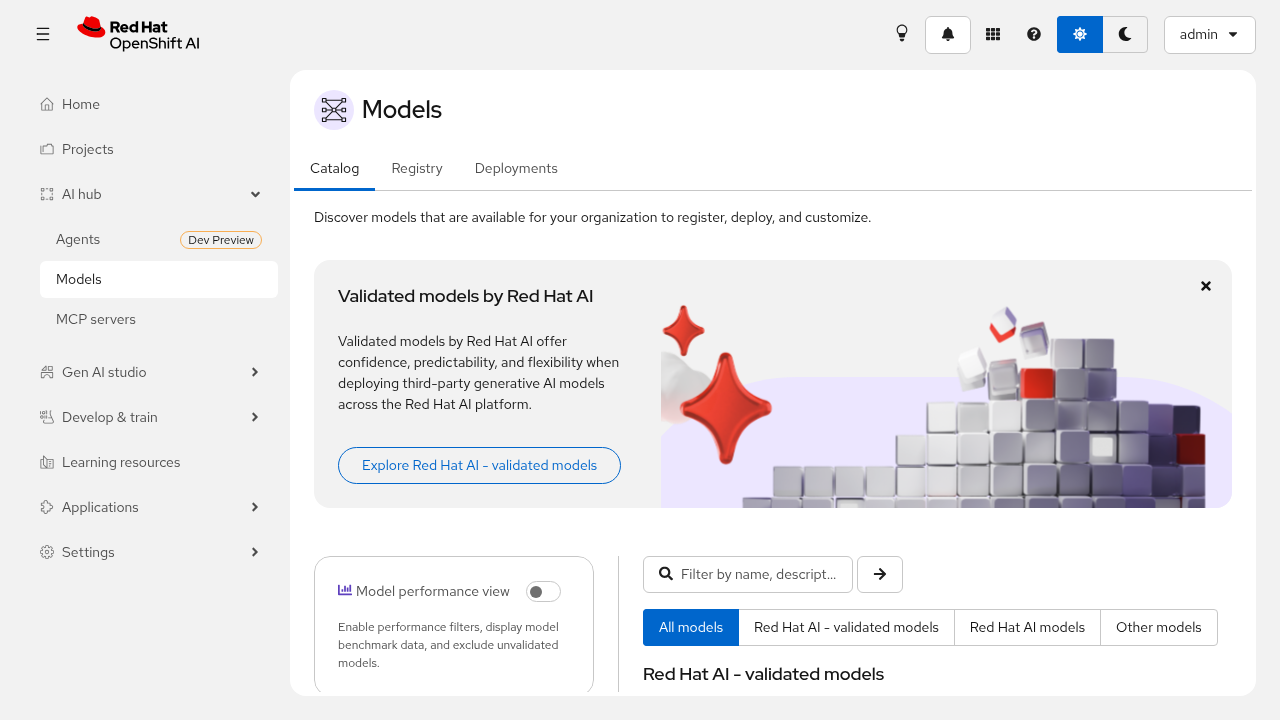
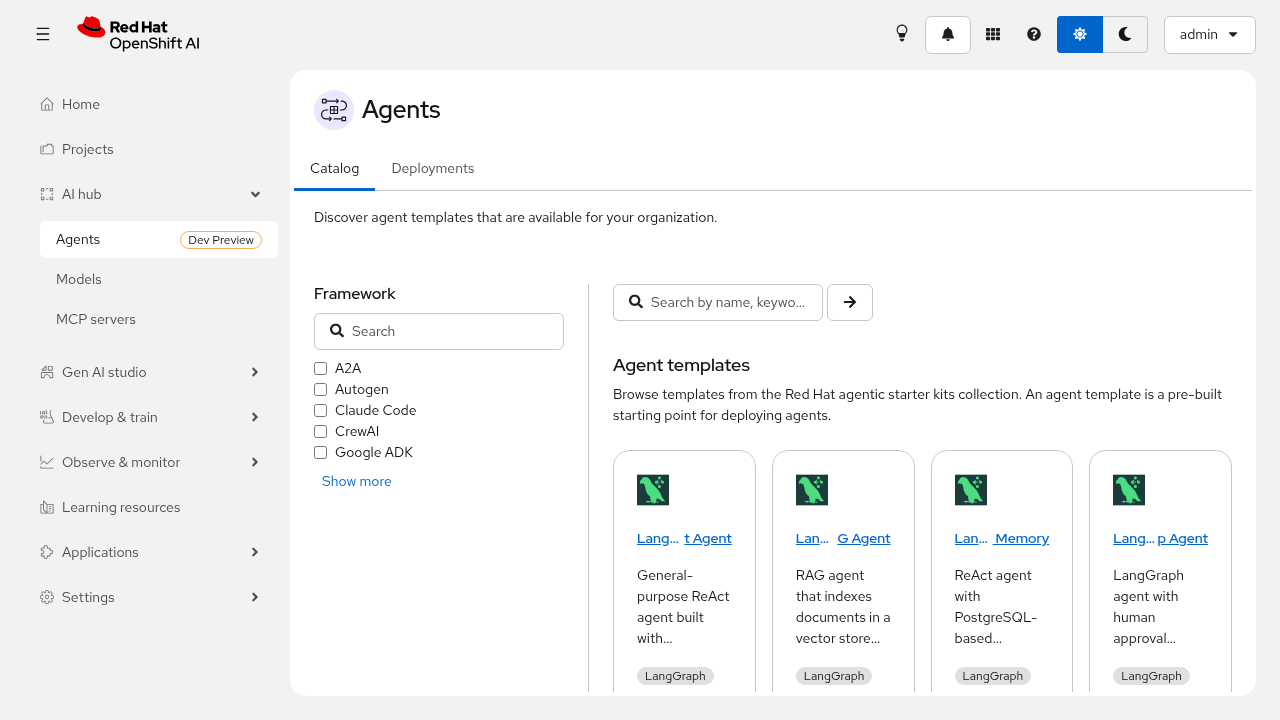
🦩 initial commit 🦩

diff --git a/qa/image-mismatch-audit.md b/qa/image-mismatch-audit.md
@@ -1,0 +1,133 @@
+# Image mismatch audit — 2026-09-29
+
+Full semantic audit of all 54 `image::` embeds across the 54 workshops: each PNG was visually
+inspected against the step text / prose it illustrates (not just alt-text). Triggered by a user
+find in agent-catalog-ai-hub (step says "click AI hub → Agents", image shows the Models catalog).
+
+**RESOLVED 2026-09-30 — all 25 defective embeds fixed: 11 re-captured live from
+cluster-44gxc (workshop resources re-created where needed: agentsCatalog flag enabled, vllm-fast-1
+runtime template created, ingress-gateway created in abc123-gateway), 11 removed with
+`// TODO(screenshot)` drift reasons and dead PNGs deleted, 3 alt-text/prose corrections.**
+`make build` clean (0 errors), zero broken image references. Skill gap fixed: the
+quality-enrichment Phase 2 content-match audit (+4 triage signal), workshop-screenshot post-capture
+verification (final URL/title + pixel check, rejecting 404/error/modal/empty captures), and a
+Content Correctness rule in WORKSHOP-COMMON-RULES were added so this class of defect is caught
+before shipping.
+
+Dedup note: 54 embeds map to 44 unique files (7 duplicate-hash groups). A shared file can be
+correct in one workshop and wrong in another (e.g. 01-model-catalog-page.png).
+
+## Scoreboard
+
+| Verdict | Embeds | Meaning |
+|---|---|---|
+| HARD mismatch | 20 | image shows the wrong page, an error/404, a welcome modal, or an empty state that contradicts the step |
+| Moderate | 1 | right surface, wrong selection/state shown |
+| Minor | 4 | right page, but a detail the alt/prose claims is not visible |
+| Borderline-acceptable | 4 | empty state explicitly documented by alt-text and/or prose |
+| Clean match | 25 | image matches step + alt-text |
+
+**25 of 54 embeds (46%) "don't make sense"; 20 are outright wrong.**
+
+## HARD mismatches (20)
+
+| # | Workshop / file | Prose says | Image actually shows |
+|---|---|---|---|
+| 1 | agent-catalog-ai-hub `01-model-catalog-page.png` | "click AI hub → Agents", observe agent starter kits | Models catalog page (AI hub → Models highlighted) — the user's find. NB: same file is CORRECT in csv-export-model-catalog |
+| 2 | ai-available-assets `01-ai-asset-endpoints-page.png` | endpoints page, per-project assets | Loading spinner + "Welcome to OpenShift AI 3.5!" tour modal + "No projects" |
+| 3 | ai-available-assets `01-mcp-servers-tab.png` | "the GitHub MCP server now appears in the MCP servers tab" | "No MCP configuration found" empty state — contradicts the verify step |
+| 4 | ai-available-assets `02-models-tab.png` | Models tab with deployed model + capability badges | "Models as a Service could not be loaded" error banner + "Some model sources could not be loaded" empty state |
+| 5 | openshell-agent-sandboxing `02-agent-deployments-dashboard.png` | "Running agent deployments in the RHOAI dashboard" | "No agent deployments" empty state |
+| 6 | view-agent-deployments `01-agent-ops-list.png` | "Running agent deployments list in the dashboard" | Same empty-state file as #5 (md5 5fa918ac) |
+| 7 | mcp-catalog-admin `01-mcp-catalog-settings.png` | Settings page with MCP catalog source management | Console "We can't find that page" 404 + welcome tour modal (page doesn't exist in this build) |
+| 8 | rhai-fast-release-images `01-serving-runtime-badges.png` | Serving runtimes page with badge combinations | Same 404 file as #7 (md5 ac734e54) |
+| 9 | validated-tool-calling-config `01-validated-arguments-panel.png` | Validated Arguments / Tool Calling panel | Raw OAuth `server_error` JSON page (failed auth redirect; also renders a state param) |
+| 10 | maas-llmd-deployment `01-deploy-wizard-llmd.png` | Deploy wizard, "Distributed inference with llm-d" resource selected | Welcome tour modal over a project page showing a **Failed** deployment card |
+| 11 | rhai-fast-release-images `02-wizard-fast-runtime.png` | Deploy wizard with fast-1 runtime selected | Same welcome-modal file as #10 (md5 f7f8cce8) |
+| 12 | vllm-cpu-ibm-z-power `01-deploy-model-wizard.png` | Wizard with vLLM CPU ServingRuntime selected | Same welcome-modal file as #10 (md5 f7f8cce8) |
+| 13 | kueue `02-workload-conditions.png` | Workload YAML status conditions | Console "404: The server doesn't have a resource type 'workloads'" error page |
+| 14 | kubeflow-trainer-v2 `02-trainjob-console-search.png` | TrainJob listed on console Search page | "No resources selected" empty Search page (no TrainJob) |
+| 15 | autorag `01-autorag-page.png` | AutoRAG page listing optimization runs | "Configure a pipeline server" empty state |
+| 16 | maas-multi-provider-passthrough `02-external-models-tab.png` | External models tab, claude-sonnet Ready | API keys page + "No API keys" empty state + welcome modal — wrong page entirely |
+| 17 | model-registry-catalog `03-model-transfer-jobs.png` | Transfer-jobs table with names/namespaces/statuses | "No model transfer jobs" empty state |
+| 18 | llama-stack-ogx-core `01-ogx-operator-installed.png` | OGX Operator in Installed Operators view | Console "404: Page Not Found" (project redhat-ods-operator) |
+| 19 | mlflow-experiment-tracking `02-experiment-overview.png` | demo-experiment overview with run statistics, logged params, metric charts | GenAI **Usage** tab: "Traces 0", "No data available for the selected time range", empty latency/error panels |
+| 20 | gateway-api-rhcl `02-gateways-status.png` | Verify: created Gateway reports Resource accepted / programmed | Gateways list view with 3 pre-existing platform Gateways (data-science, maas-default, openshift-ai-inference) — the created Gateway is not shown |
+
+## Moderate (1)
+
+| Workshop / file | Issue |
+|---|---|
+| maas-vllm-deployment `02-deploy-model-wizard.png` | Wizard shows the **"LLM inference service"** deployment method selected; this workshop deploys the legacy vLLM path, which requires the **"Inference service"** radio (the one the prose contrasts against) |
+
+## Minor (4)
+
+| Workshop / file | Issue |
+|---|---|
+| gateway-api-rhcl `01-installed-operators-kuadrant.png` | Right page (kuadrant-system Installed Operators) but Connectivity Link operator is NOT visible in the list (Agent Sandbox, Authorino, AWS EFS, Cluster Observability, DNS only) |
+| llmd-kv-cache-tiering `01-llmd-topology-configurations.png` | Prose says "note the columns shown" — the empty-state image shows no columns (same file is correct in llmd-core, whose prose says the table is empty) |
+| llminferenceservice-config `02-deployed-models-llminferenceservice.png` | Right deployments list, but the claimed "Ready status badge" is not visible (no status column in frame) |
+| llminferenceservice-config `03-deploy-wizard-llmd-multinode.png` | Alt says "Multi-node topology option enabled"; image shows **Single node** selected |
+
+## Borderline-acceptable (4) — no action
+
+Empty states that the alt-text/prose explicitly documents: llmd-latency-routing and
+llmd-lora-routing routing-configurations, llmd-core topology-configurations,
+mcp-lifecycle-operator deployments tab.
+
+## Root causes
+
+1. **Bulk capture session captured whatever state the browser was in** — welcome tour modals,
+   loading spinners, 404s and OAuth error pages shipped unreviewed.
+2. **Files copy-pasted across sibling workshops** (agents-mcp, model-serving families) — one bad
+   capture propagates to 2-3 embeds; the 404 and wizard-modal files each cover 2-3 workshops.
+3. **No alt-text vs pixels check** — several alt-texts honestly describe the intended image, so a
+   text-only review passes while the pixels are wrong.
+4. **Cluster-state drift** — some states (MCP catalog settings page, workloads API, transfer jobs)
+   don't exist in the current build, so the capture can never match.
+
+## Recommended actions
+
+**RESOLVED 2026-09-30 (dispositions of each of the 25):**
+
+Re-captured live (11):
+- agent-catalog-ai-hub `01-model-catalog-page.png` — the real AI hub → Agents catalog (agentsCatalog flag enabled on the cluster first, per the workshop's own Exercise 2); alt-text corrected
+- ai-available-assets `01-ai-asset-endpoints-page.png` — populated endpoints page (project abc123-user1, qwen25-05b Ready)
+- ai-available-assets `02-models-tab.png` — Models tab with the deployed models
+- maas-llmd-deployment `01-deploy-wizard-llmd.png` — wizard with "LLM inference service with llm-d" selected
+- rhai-fast-release-images `02-wizard-fast-runtime.png` — wizard with the fast-1 runtime (Limited support + fast-1 badges); the workshop's vllm-fast-1 runtime template was created on the cluster (OpenShift Template in redhat-ods-applications — the wizard lists Templates, not ServingRuntime CRs)
+- vllm-cpu-ibm-z-power `01-deploy-model-wizard.png` — wizard with vLLM CPU (x86) runtime selected
+- maas-vllm-deployment `02-deploy-model-wizard.png` — wizard with "Inference service" selected
+- rhai-fast-release-images `01-serving-runtime-badges.png` — Serving runtimes page with Pre-installed/version badges
+- gateway-api-rhcl `01-installed-operators-kuadrant.png` — kuadrant-system Installed Operators with Red Hat Connectivity Link (required a taller viewport: the console table virtualizes)
+- gateway-api-rhcl `02-gateways-status.png` — Gateways view with the created ingress-gateway (workshop resource re-created in abc123-gateway; Programmed=False matches the content's own RHDP note — no LoadBalancer hostname)
+- llama-stack-ogx-core `01-ogx-operator-installed.png` — redhat-ods-applications Installed Operators with the OpenShift AI operator (OGX's carrier); alt-text corrected (no separate OGX Operator CSV exists in this build)
+
+Removed + `// TODO(screenshot)` with drift reasons (11):
+- ai-available-assets `01-mcp-servers-tab.png` — needs a published GitHub MCP server + playground MCP config (none deployed)
+- openshell-agent-sandboxing + view-agent-deployments (2 files) — need the Agent Sandbox operator (not installed)
+- mcp-catalog-admin `01-mcp-catalog-settings.png` — the settings page 404s in the 3.5.1 build
+- validated-tool-calling-config `01-validated-arguments-panel.png` — the model details Validated Arguments/Tool Calling panel does not exist in this build (catalog filter does); prose flagged for review
+- kueue `02-workload-conditions.png` — kueue admission webhook does not create Workloads here (LocalQueue/ClusterQueue applied, job ran, no Workload CR)
+- kubeflow-trainer-v2 `02-trainjob-console-search.png` — no TrainJob CRD installed
+- autorag `01-autorag-page.png` — environment GC'd; re-run blocked on upstream driver image
+- maas-multi-provider-passthrough `02-external-models-tab.png` — needs Anthropic credentials
+- model-registry-catalog `03-model-transfer-jobs.png` — no transfer jobs exist
+- mlflow-experiment-tracking `02-experiment-overview.png` — MLflow demo environment GC'd
+
+Alt-text/prose corrections (3):
+- llminferenceservice-config module-02 alt — removed the unverifiable "Ready status badge" claim
+- llminferenceservice-config module-03 alt — describes the actual wizard state (Single node selected, Multi-node available)
+- llmd-kv-cache-tiering prose — no longer asks the learner to "note the columns shown" in an empty state
+
+Residual prose drifts needing human review (recorded in the TODO comments):
+- validated-tool-calling-config Exercise 2 step 5 — the copy-and-run Tool Calling panel does not exist in the 3.5.1 UI
+- gateway-api-rhcl module-02 Verify — claims `Programmed=True`; the content's own NOTE explains this never happens on RHDP clusters without a LoadBalancer provider
+- llama-stack-ogx-core module-01 — "The OGX Operator appears in the redhat-ods-applications namespace" — OGX is a component of the OpenShift AI operator in this build, not a separate CSV
+
+- Anti-recurrence (DONE): the screenshot QA gap is fixed in the skills — quality-enrichment
+  Phase 2 step 7 (content-match audit, +4 triage signal, WRONG/STALE verdicts, hash-dedup per
+  embed), workshop-screenshot step 4 (final URL/title + pixel verification, rejecting 404/error/
+  modal/empty captures), and a Content Correctness rule in WORKSHOP-COMMON-RULES Section 2.
+- Re-capture requires dashboard auth: the workshop Keycloak (rhbk realm, admin creds) works for
+  both dashboard and console via playwright-cli.
